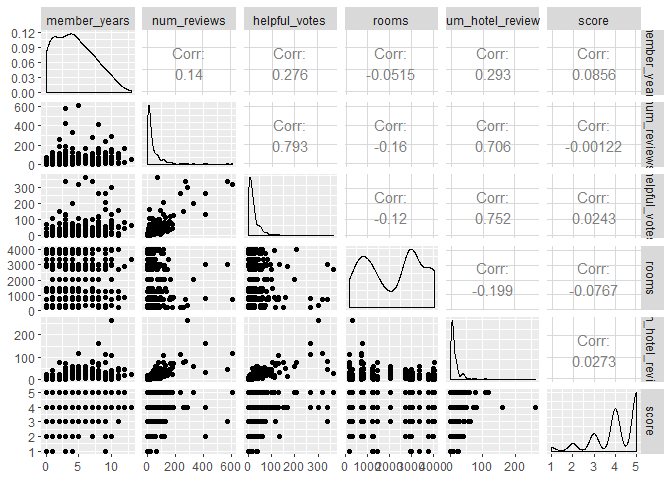
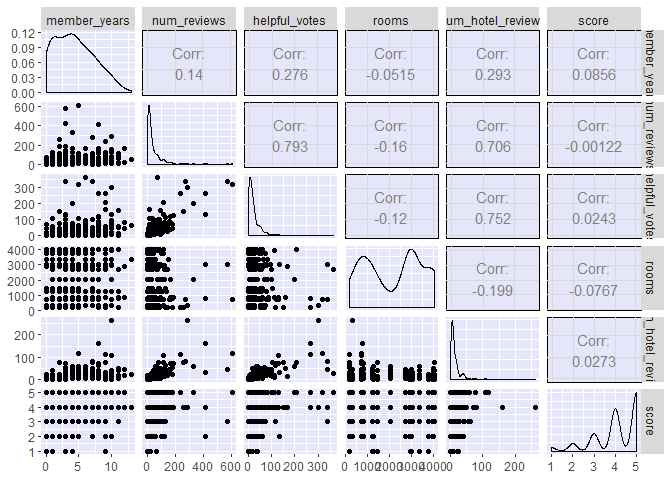
next steps added

Changed region(s): [[0.1875, 0.0625, 0.9688, 0.8125]]

diff --git a/doc/EDA_vegas_strip_data.md b/doc/EDA_vegas_strip_data.md
@@ -663,7 +663,41 @@ Having explored relationship between categorical features and target
 score. Lets see how continous features affect hotel scores.
 
 ``` r
-ggpairs(training_set, c(numerical_features, "score"))
+ggpairs(training_set, c(numerical_features, "score"))+
+   theme(panel.background = element_rect(fill =   "lavender"))
 ```
 
 ![](EDA_vegas_strip_data_files/figure-gfm/unnamed-chunk-16-1.png)<!-- -->
+
+Clearly based on the plot above we can see that there is not much
+correlation between numeric features and the scores. This theoretically
+makes sense as number of reviews from users, number of hotel reviews
+etc. should have minimal impact on scores. But it might not be a good
+idea to remove these features at this stage. We can first create
+baseline model and do further feature engineering.
+
+### Summary of EDA
+
+  - Based on the exploratory data analysis of different features, we see
+    that some features like having a pool, free internet etc.
+    signiciantly improves hotel scores while other features like most of
+    numeric features, review days etc. do not seem to have any
+    significant impact on average hotel scores.
+
+  - Two of the features/columns - user\_country and hotel\_names were
+    removed as based on EDA, those either do not contribute to the
+    average hotel score or their contribution cannot be generalized.
+    There are other features which may be removed but we will first
+    create a baseline model and compare relative feature importances
+    with EDA analysis and then do feature reduction.
+
+### Next Steps
+
+The planned next course of action is as follows.
+
+  - Do pre-processing of dataset before developing linear
+    regression(and/or other generalized linear regression models)
+  - Develop models
+  - Feature engineering based on results
+  - Improve models(iterative)
+  - Report final results
